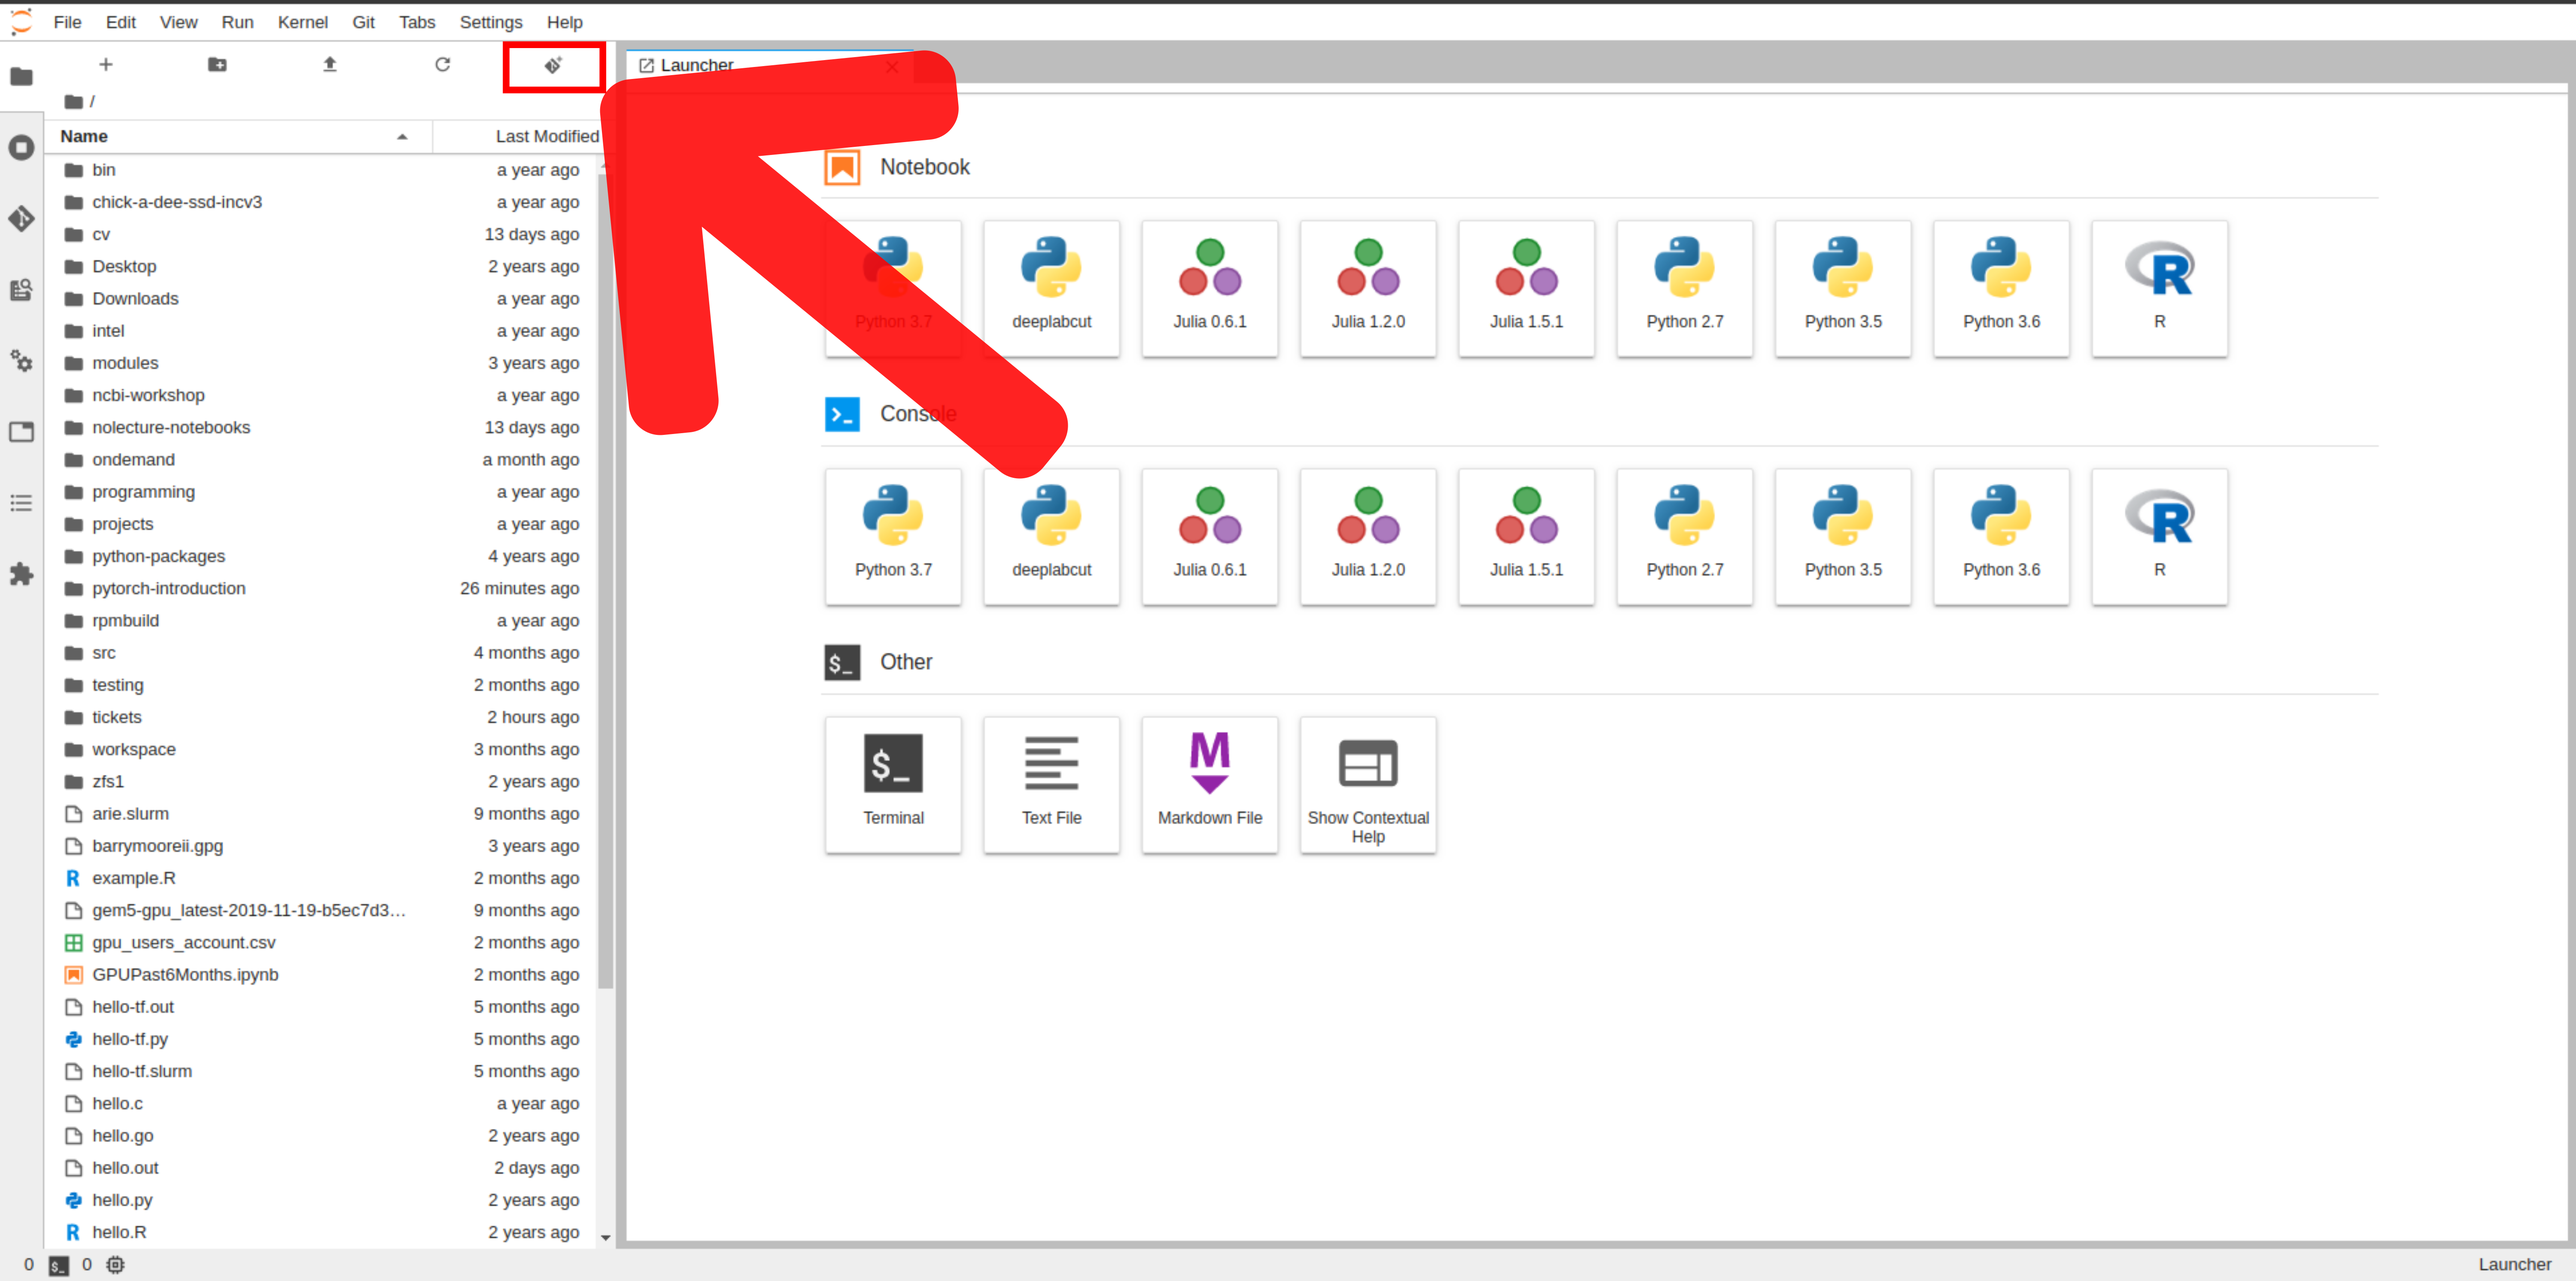
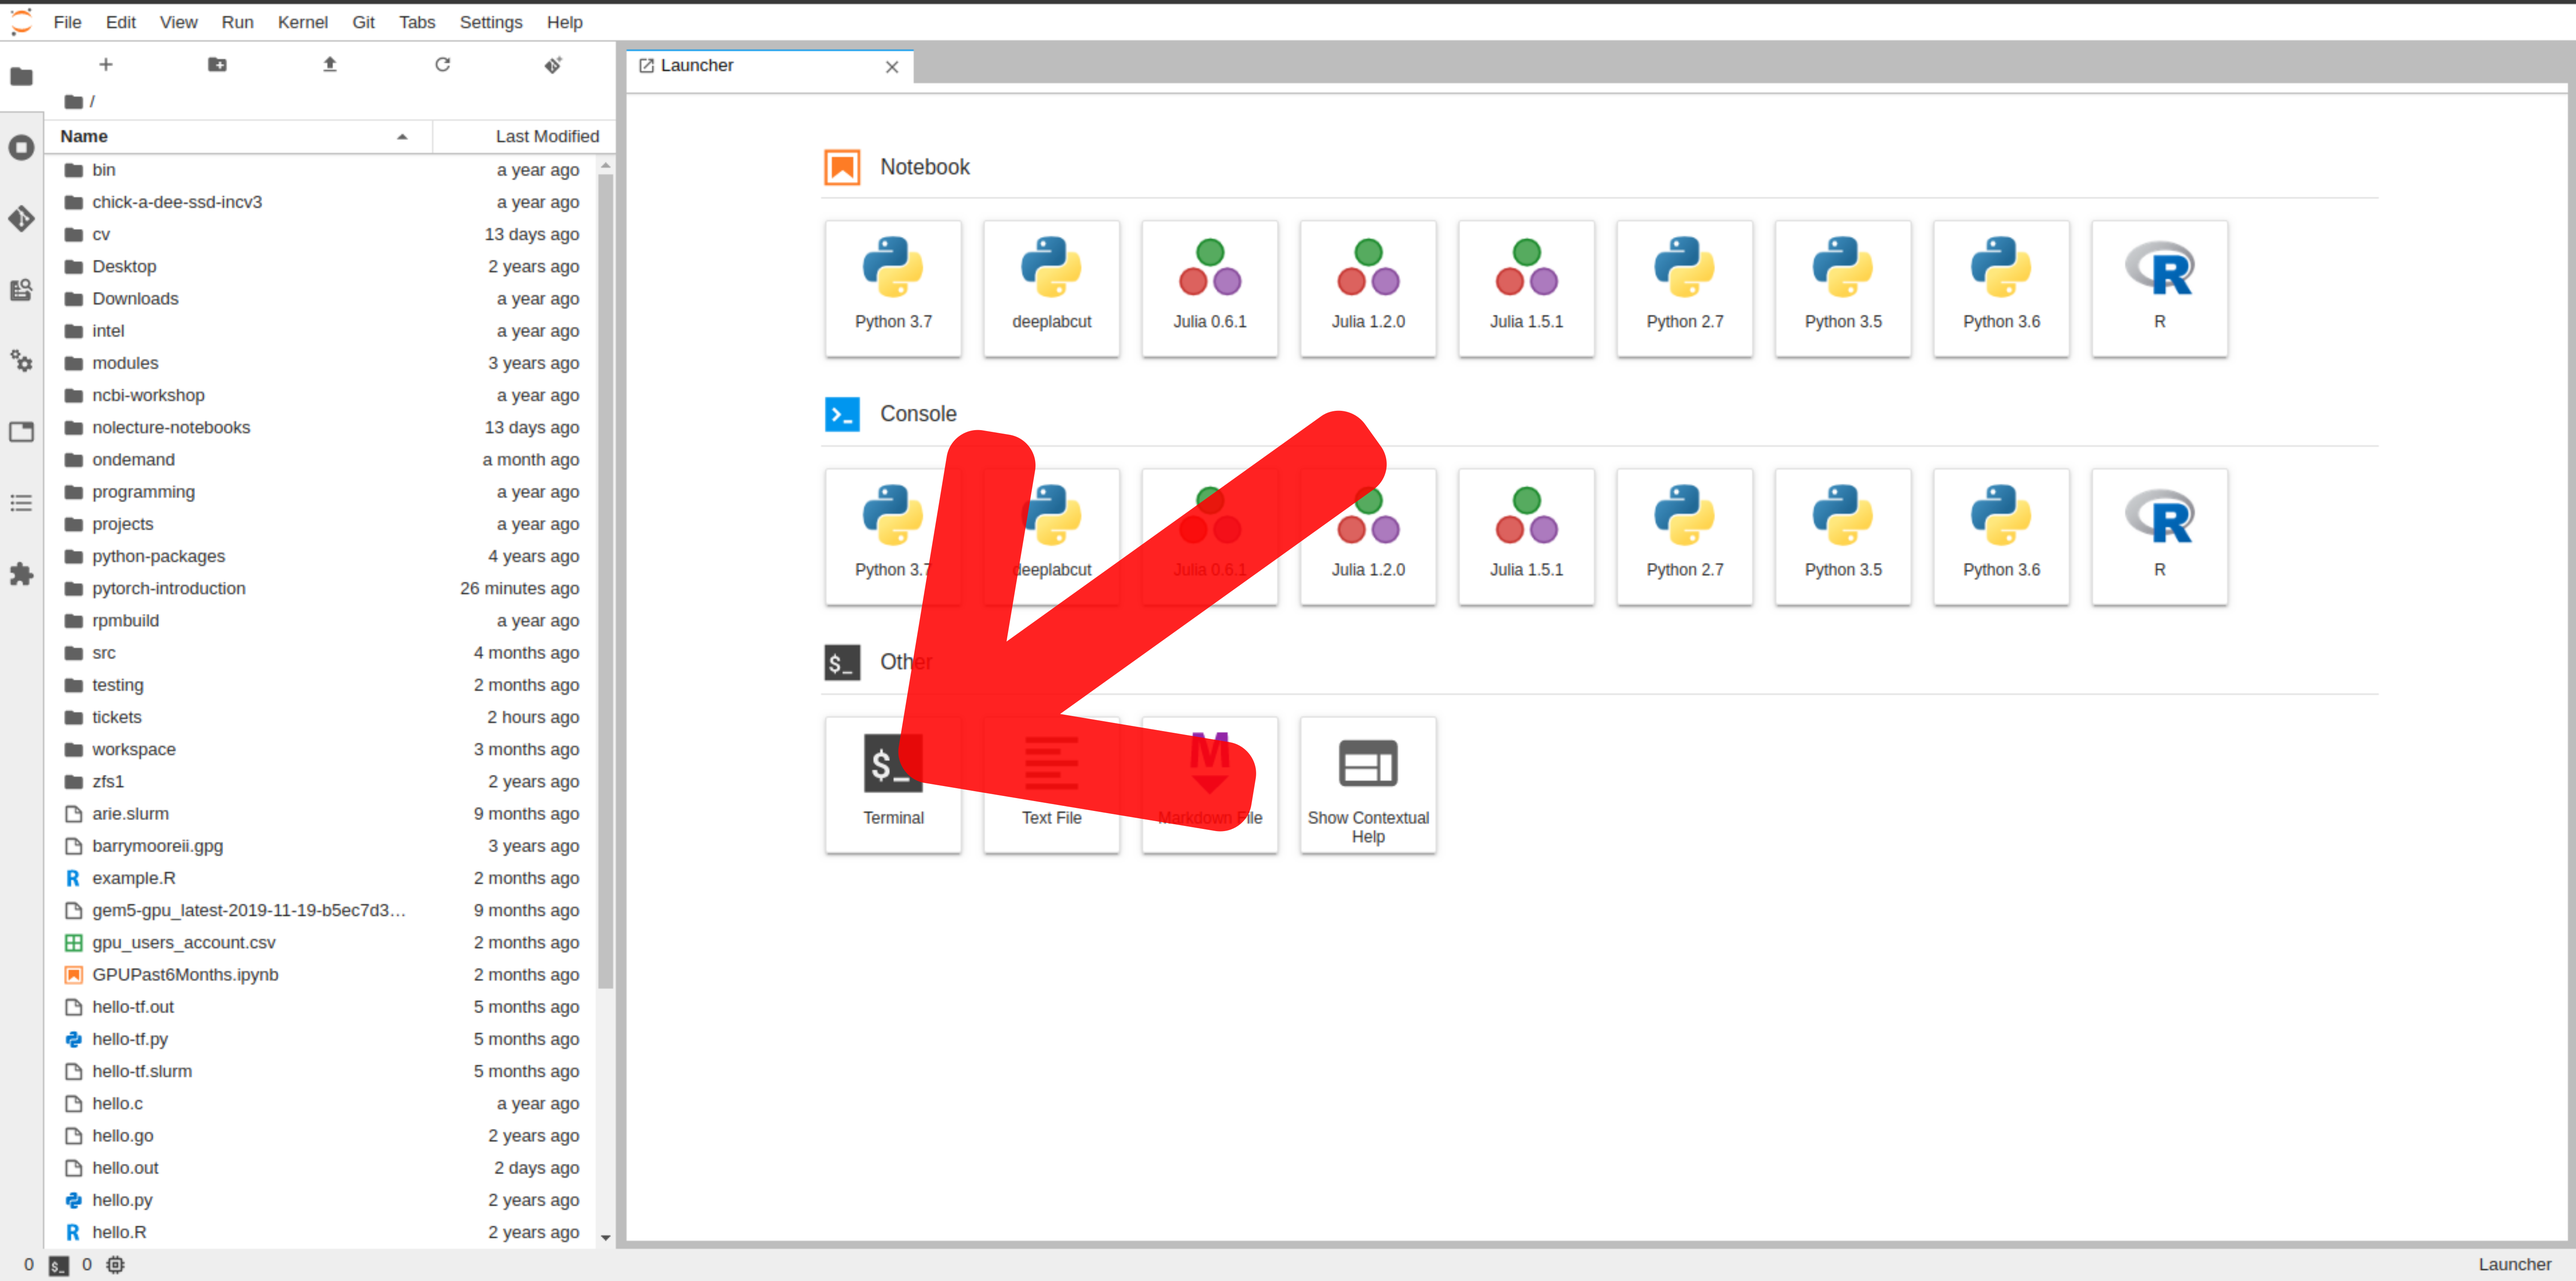
Move back to terminal based notebook download

Changed region(s): [[0.187, 0.0312, 0.561, 0.6545]]

diff --git a/pytorch-introduction.tex b/pytorch-introduction.tex
@@ -54,8 +54,7 @@
 \begin{frame}{Getting the Slides}
   \begin{itemize}
     \item Download slides from
-      \namedUrl{https://github.com/chiroptical/pytorch-introduction/releases/latest/download/pytorch-introduction.pdf}{https://bit.ly/320ImDH}
-      (three, two, zero, upper i, lower m, upper d, upper h)
+      \namedUrl{https://github.com/chiroptical/pytorch-introduction/releases/latest/download/pytorch-introduction.pdf}{https://bit.ly/introtorch}
     \item In Chrome or Firefox (Safari and Explorer won't work),
     \begin{itemize}
       \item navigate to \unnamedUrl{https://hub.crc.pitt.edu}
@@ -76,23 +75,9 @@
   }
   \begin{itemize}
     \item Click the button pointed to by the arrow
-    \begin{itemize}
-      \item If you can't click it move to next slide
-    \end{itemize}
-    \item Copy and paste this URL into the box \unnamedUrl{https://github.com/chiroptical/pytorch-introduction}
-    \item You now have the slides and the notebooks
+    \item In the new window, type the following and hit return
   \end{itemize}
-\end{frame}
-
-\begin{frame}{Getting the Notebooks}
-  \begin{itemize}
-    \item Skip this slide if you already have slides
-    \item Click the buttons pointed to by the arrows from bottom to top
-    \item Navigate to previous slide
-  \end{itemize}
-  \centering {
-    \ig{0.75}{figures/enable.png}
-  }
+  \pygment{\scriptsize}{bash}{code/git-clone}
 \end{frame}
 
 \begin{frame}[plain]
